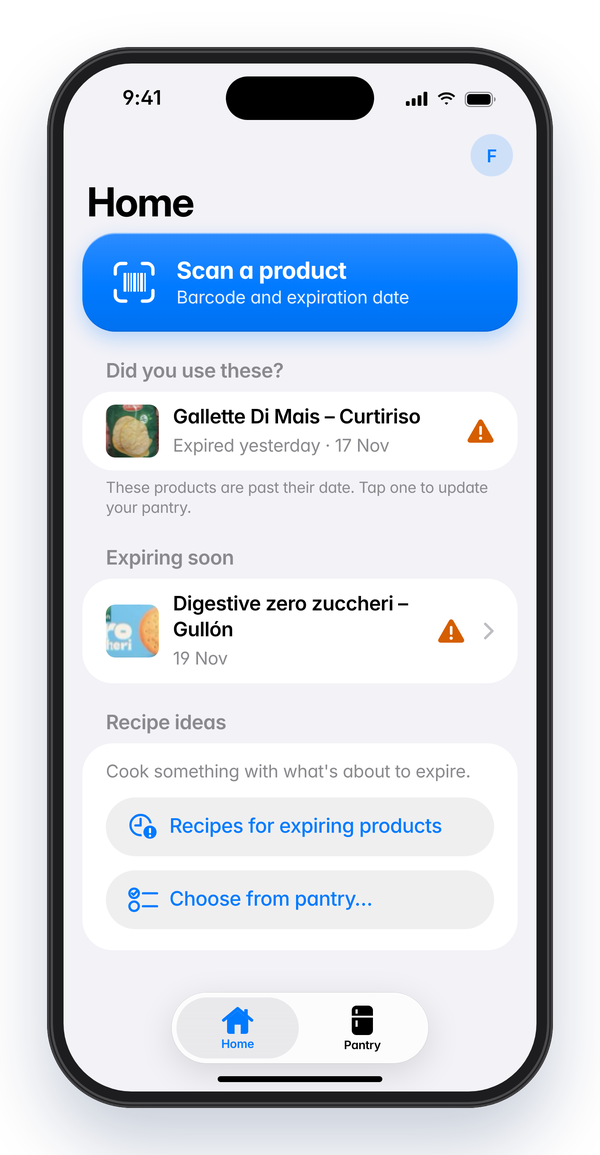
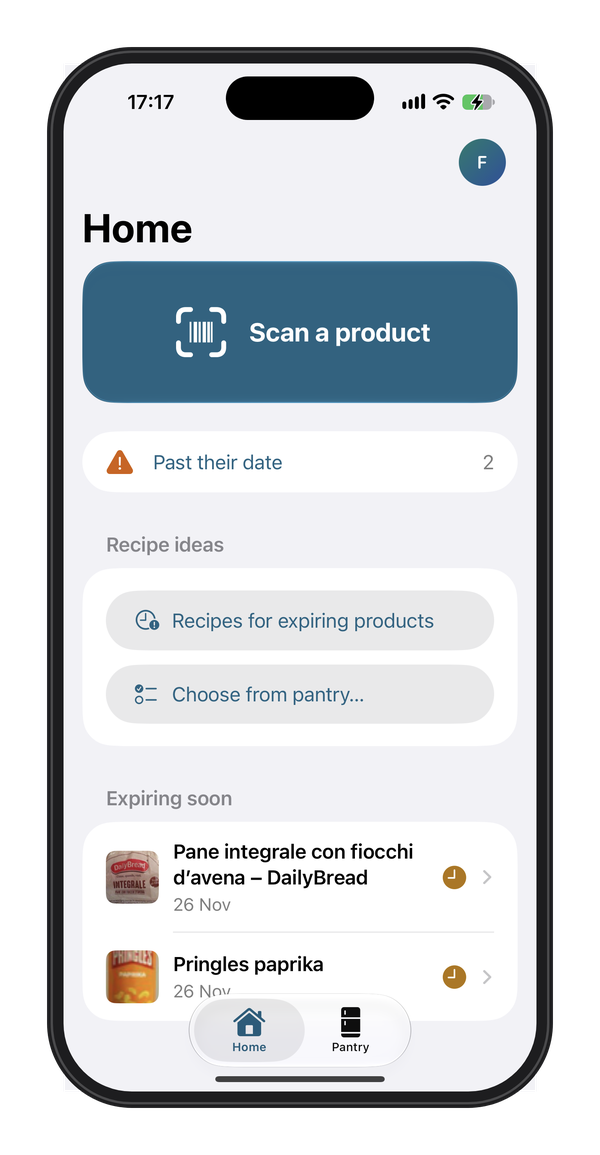
README: one-step scan, new Home, What's new section, real folder structure, new screenshot

diff --git a/README.md b/README.md
@@ -26,16 +26,26 @@ Belloop is our answer to that. You scan what you buy, the app keeps the list for
 
 <img src="docs/home.png" width="280" align="right" alt="Belloop Home screen">
 
-- **Scan the barcode** and Belloop fills in the name, brand and photo from Open Food Facts.
-- **Scan the expiry date** printed on the pack with the camera, no typing.
+- **One scan for everything.** Tap Scan a product and the camera opens. Point it at the barcode, turn the pack, and the expiry date is read in the same scan, even when it's printed right next to the barcode. Name, brand and photo come from Open Food Facts, and you can still change them before saving. No barcode? Tap Enter manually.
 - **Pantry** with everything you have, sorted by date, with search.
-- **Reminders** a few days before a product expires (3 by default, you can change it).
-- **Home screen** that only shows what needs attention: what's about to expire and what already did ("did you use these?").
-- **Recipes** that use the products about to expire, plus anything else you pick from your pantry. Savory or sweet, with the recipes that use exactly your product first.
+- **One reminder a day**, at 9:00, for everything that's about to expire (3 days before by default, you can change it). The day after a product expires, the notification asks if you used it, and you can answer without opening the app.
+- **A Home that fits on one screen**, however full your fridge is. Expired products sit in one row at the top: tap it and swipe through them, answering one at a time. Then the recipe buttons, the three products expiring soonest, and See all for the rest.
+- **Recipes** that use the products about to expire, plus anything else you pick from your pantry. Savory or sweet, with the recipes that use exactly your product first. Anything that expired more than a day ago isn't suggested. Belloop can also read a recipe out loud while you cook.
 - **iCloud sync**: your pantry is saved in your own private iCloud and stays the same on all your devices.
 - **English and Italian**, recipes included (they're translated on the device).
+- **Help inside the app**: a short How to Use guide and answers to the usual questions, in Settings.
 
 <br clear="right">
+
+## What's new (November 2026)
+
+These came out of testing with our mentors and designers:
+
+- Scanning is one step instead of two, and the camera opens straight from the Home button.
+- The scanner no longer gets confused by the barcode numbers when the date is printed next to them, so there's no need to cover the barcode with a finger.
+- Home doesn't grow longer as the pantry grows, and the recipe buttons are always in view.
+- Sheets close with the X, like the rest of iOS.
+- A new icon and a new color for the whole app, both from our first Figma mockup.
 
 ## How it works
 
@@ -49,6 +59,7 @@ Belloop is our answer to that. You scan what you buy, the app keeps the list for
 | Matching products to recipe ingredients | Foundation Models (on device), plus Open Food Facts categories |
 | Recipe translation | Translation framework (on device) |
 | Reminders | Local notifications (`UserNotifications`) |
+| Reading recipes out loud | `AVSpeechSynthesizer`, the iPhone's own voices |
 
 Everything that reads your food (the camera, the translations, the ingredient matching) runs on the iPhone. The only things that leave the device are the barcode or name you search, sent to Open Food Facts, and the ingredient names sent to TheMealDB.
 
@@ -56,24 +67,26 @@ Everything that reads your food (the camera, the translations, the ingredient ma
 
 ```
 Belloop/
-├── FoodSaverApp.swift          app entry point, SwiftData + iCloud container
-├── ContentView.swift           the two tabs, Home and Pantry
-├── HomeView.swift              what's expiring, what expired, recipe ideas
-├── PantryView.swift            the full list, search and sort
-├── AddItemView.swift           add a product: scan, search or type
-├── ScannerViews.swift          camera scanner for barcodes and dates
-├── DateParser.swift            turns "12/05/26", "12 MAG 2026"... into a date
-├── OpenFoodFactsService.swift  product lookup and search
-├── MealDBService.swift         recipe search, ranking and sweet/savory
-├── IngredientNormalizer.swift  product name -> English recipe keyword
-├── RecipeSheet.swift           recipe list and recipe detail
-├── RecipeTranslator.swift      on-device translation of recipes
-├── NotificationManager.swift   expiry reminders
-├── ProfileView.swift           profile, iCloud status, country
-├── SettingsView.swift          reminder days and other settings
-├── Models.swift                the FoodItem model
-├── Localizable.xcstrings       English and Italian texts
-└── PrivacyInfo.xcprivacy       privacy manifest
+├── App/
+│   ├── BelloopApp.swift            app entry point, SwiftData + iCloud container
+│   ├── ContentView.swift           the two tabs and the navigation between screens
+│   └── AppSettings.swift           reminder days and the other saved settings
+├── Models/
+│   └── Models.swift                the FoodItem model and the expiry rules
+├── Views/
+│   ├── Home/                       Home, the See all list, the review of expired products
+│   ├── Pantry/                     the full list, product rows and product detail
+│   ├── AddItem/                    the add form and the camera scanner
+│   ├── Recipes/                    recipe list, recipe detail, product picker
+│   └── Profile/                    account, settings, help and about
+├── Services/
+│   ├── OpenFoodFactsService.swift  product lookup and search
+│   ├── MealDBService.swift         recipe search, ranking and sweet/savory
+│   ├── IngredientNormalizer.swift  product name -> English recipe keyword
+│   ├── RecipeTranslator.swift      on-device translation of recipes
+│   ├── NotificationManager.swift   the daily reminder and the "did you use it?" question
+│   └── DateParser.swift            turns "12/05/26", "12 MAG 2026"... into a date
+└── Resources/                      icon and colors, English and Italian texts, privacy manifest
 ```
 
 ## Privacy
